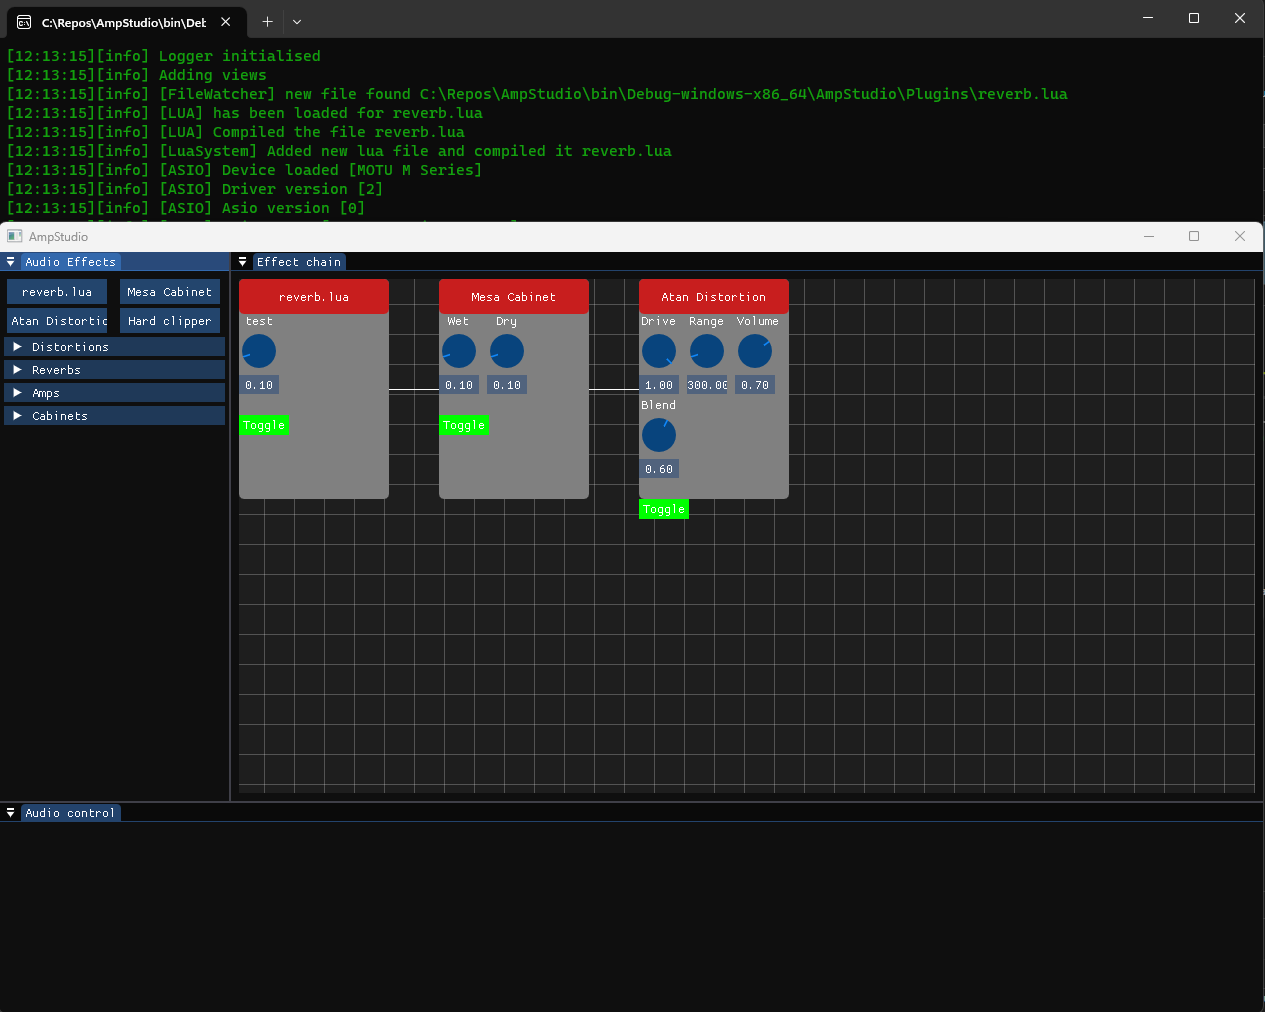
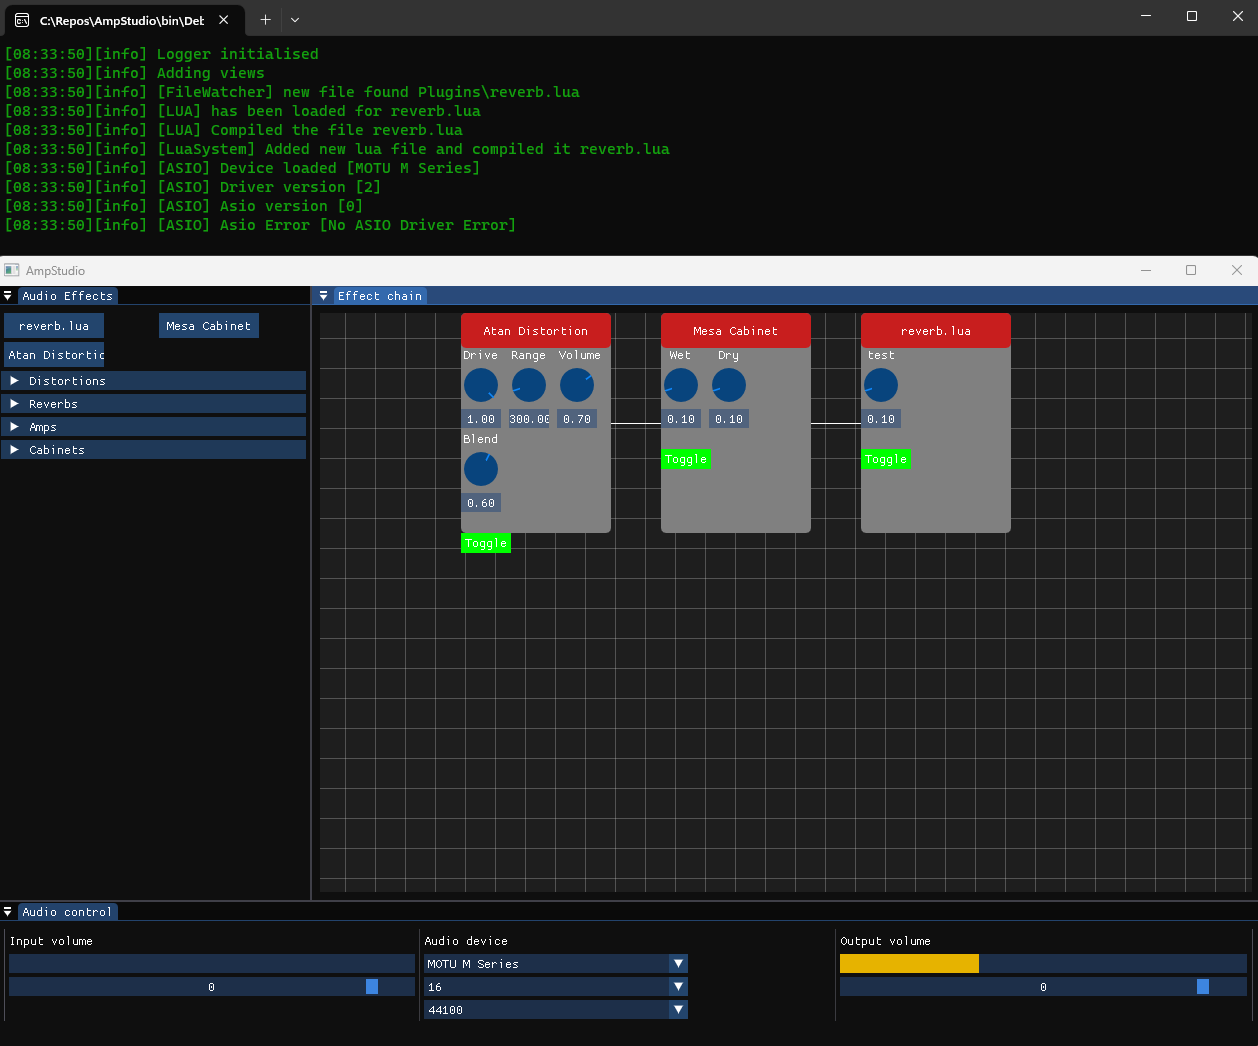
Added device settings ui

Changed region(s): [[0.0, 0.0, 1.0, 1.0], [0.0, 0.8577, 0.558, 0.9802], [0.0, 0.7658, 0.093, 0.8271]]

diff --git a/Source/AmpStudio/Views/AudioControlView.h b/Source/AmpStudio/Views/AudioControlView.h
@@ -7,7 +7,8 @@ namespace AmpStudio {
 		class AudioControlView : public Application::SubWindow {
 		public:
 			AudioControlView() : Application::SubWindow({ "Audio control" }), m_CurrentInputValue(0), m_CurrentOutputValue(0),
-				m_CurrentDbInputValue(-60), m_CurrentDbOutputValue(-60)
+				m_CurrentDbInputValue(-60), m_CurrentDbOutputValue(-60), m_DeviceNames(), m_CurrentDeviceIndex(0), m_CurrentBufferSizeIndex(0),
+				m_BufferSizes({ "16", "32", "64", "128", "256", "512" }), m_CurrentSampleRateIndex(0), m_SampleRates({ "44100", "48000" })
 			{}
 			~AudioControlView() {};
 
@@ -35,8 +36,6 @@ namespace AmpStudio {
 				m_CurrentDbOutputValue = (engine->GetOutputDbLevel() + 60.f) / 60.f;
 			};
 
-			inline static int currentIndex = 0;
-
 			inline virtual void OnDraw() override
 			{
 				ImGuiTableFlags flags = ImGuiTableFlags_SizingStretchSame | ImGuiTableFlags_Resizable 
@@ -50,25 +49,23 @@ namespace AmpStudio {
 				DrawInputSection();
 
 				ImGui::TableSetColumnIndex(1);
-				ImGui::AlignTextToFramePadding();
-				ImGui::Text("Audio device");
-				if (ImGui::BeginCombo("", m_DeviceNames[currentIndex].c_str())) {
-					for (int i = 0; i < m_DeviceNames.size(); ++i) {
-						const bool isSelected = (currentIndex == i);
-						if (ImGui::Selectable(m_DeviceNames[i].c_str(), isSelected))
-							currentIndex = i;
-
-						if (isSelected)
-							ImGui::SetItemDefaultFocus();
-					}
-					ImGui::EndCombo();
-				}
+				DrawDeviceSection();
 
 				ImGui::TableSetColumnIndex(2);
 				DrawOutputSection();
 
 				ImGui::EndTable();
 			}
+
+			void DrawDeviceSection()
+			{
+				ImGui::AlignTextToFramePadding();
+				ImGui::Text("Audio device");
+				DrawComboBox(m_DeviceNames, m_CurrentDeviceIndex, "##device_names");
+				DrawComboBox(m_BufferSizes, m_CurrentBufferSizeIndex, "##buffer_sizes");
+				DrawComboBox(m_SampleRates, m_CurrentSampleRateIndex, "##sample_rates");
+			}
+
 
 			void DrawInputSection()
 			{
@@ -98,10 +95,32 @@ namespace AmpStudio {
 				ImGui::PopItemWidth();
 			}
 
+			void DrawComboBox(const std::vector<std::string>& items, int& index, const char* label = 0)
+			{
+				if (ImGui::BeginCombo(label, items[index].c_str())) {
+					for (int i = 0; i < items.size(); ++i) {
+						const bool isSelected = (index == i);
+						if (ImGui::Selectable(items[i].c_str(), isSelected))
+							index = i;
+
+						if (isSelected)
+							ImGui::SetItemDefaultFocus();
+					}
+					ImGui::EndCombo();
+				}
+			}
+
 		private:
 			AmpProcessing::AudioEngine* m_AudioEngine;
 
+			int m_CurrentDeviceIndex;
 			std::vector<std::string> m_DeviceNames;
+
+			int m_CurrentBufferSizeIndex;
+			std::vector<std::string> m_BufferSizes;
+
+			int m_CurrentSampleRateIndex;
+			std::vector<std::string> m_SampleRates;
 
 			int m_CurrentInputValue;
 			float m_CurrentDbInputValue;
